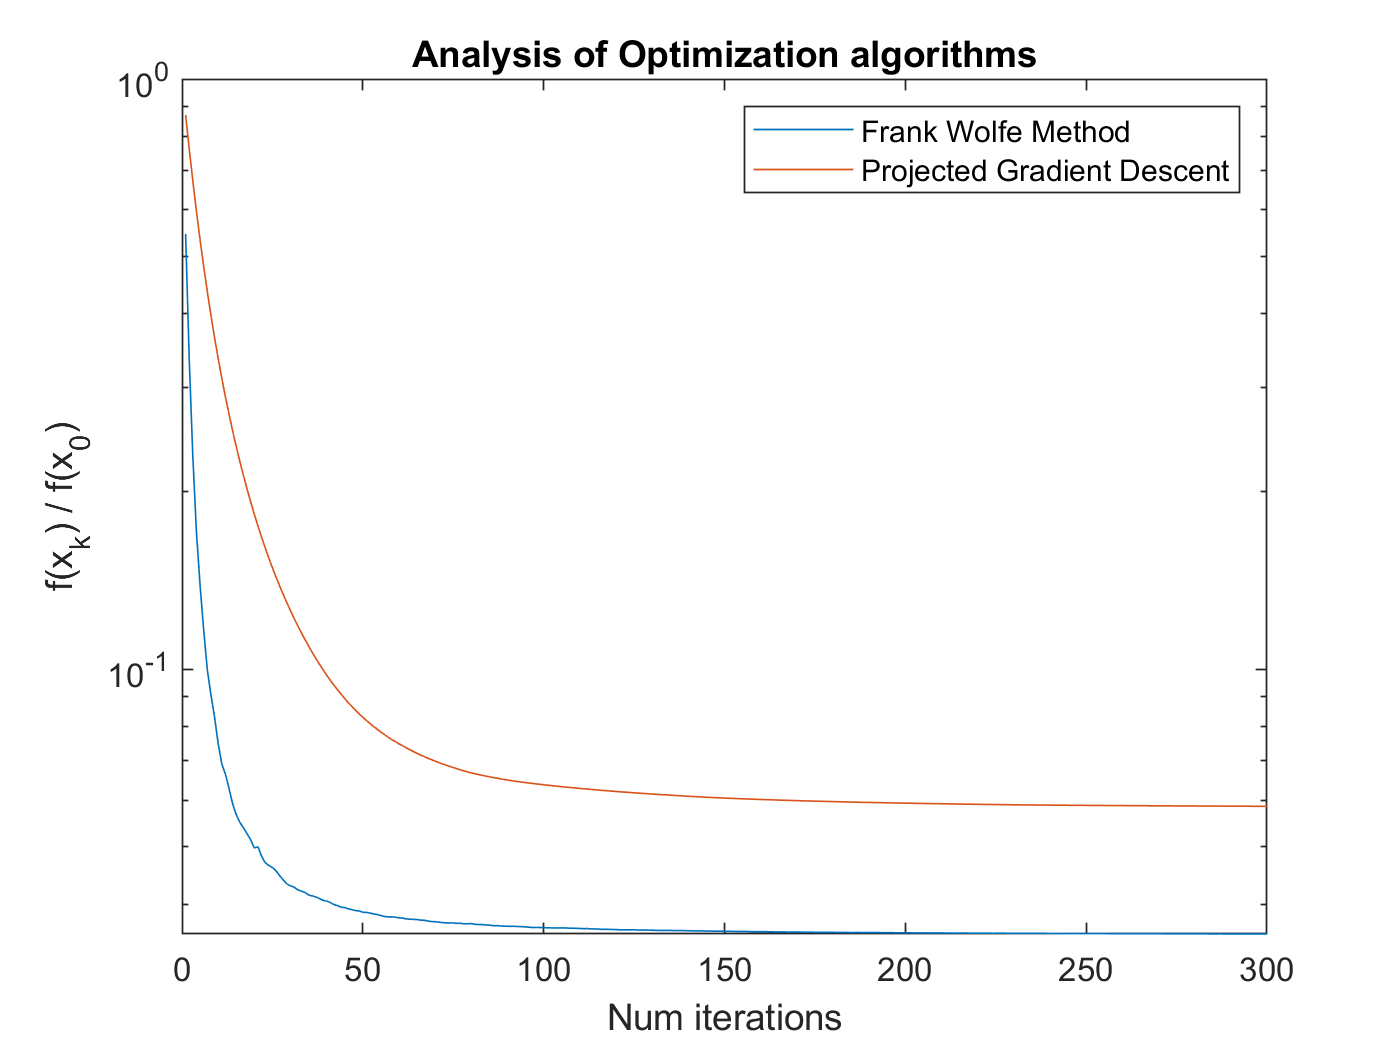
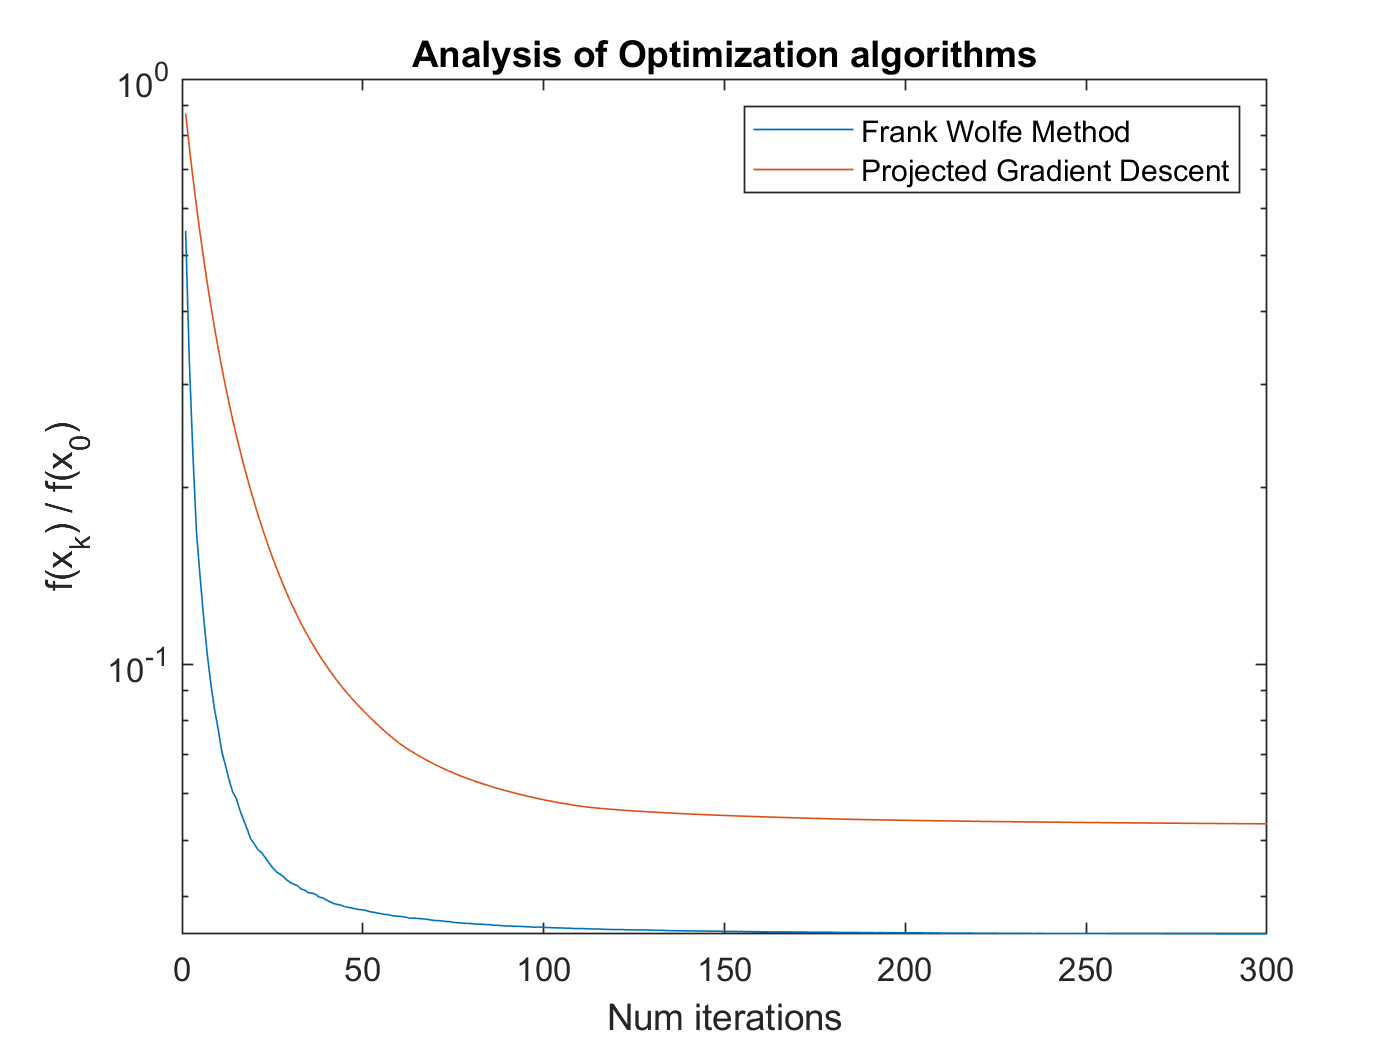
Added code to accept a trial only if f value converges to at least 0.1 times initial val in n_iter iterations

diff --git a/assignments/assignment5/q2.m b/assignments/assignment5/q2.m
@@ -9,8 +9,8 @@ function q2(p, n, n_iter)
     f_vals_pgd = zeros(n_iter, n_trials);
     iterate_sparsity_pgd = zeros(n_trials, 1) - 1;
     
-    trial = 1
-    for trial = 1 : n_trials
+    trial = 1;
+    while trial <= n_trials
         % rng('default') % For reproducibility
         B = normrnd(0, 1, [p, n]);
         b = ones(p, 1);
@@ -26,19 +26,31 @@ function q2(p, n, n_iter)
         
         x_k_pgd = zeros(n, 1);
         x_k_pgd(1) = 1;
+        
+        trial_f_vals_fw = zeros(n_iter, 1);
+        trial_f_vals_pgd = zeros(n_iter, 1);
     
         for iter = 1 : n_iter
             x_k_fw = FrankWolfeMethod(x_k_fw, B, b, iter - 1);
-            f_vals_fw(iter, trial) = evaluateFunction(B, b, x_k_fw) / evaluateFunction(B, b, x0);
+            trial_f_vals_fw(iter) = evaluateFunction(B, b, x_k_fw) / evaluateFunction(B, b, x0);
+            % f_vals_fw(iter, trial) = evaluateFunction(B, b, x_k_fw) / evaluateFunction(B, b, x0);
             if iterate_sparsity_fw(trial) == -1 && f_vals_fw(iter, trial) <= 0.1
                 iterate_sparsity_fw(trial) = sum(x_k_fw == 0);
             end
 
             x_k_pgd = ProjectedGradientDescent(B, b, L, x_k_pgd);
-            f_vals_pgd(iter, trial) = evaluateFunction(B, b, x_k_pgd) / evaluateFunction(B, b, x0);
+            trial_f_vals_pgd(iter) = evaluateFunction(B, b, x_k_pgd) / evaluateFunction(B, b, x0);
+            % f_vals_pgd(iter, trial) = evaluateFunction(B, b, x_k_pgd) / evaluateFunction(B, b, x0);
             if iterate_sparsity_pgd(trial) == -1 && f_vals_pgd(iter, trial) <= 0.1
                 iterate_sparsity_pgd(trial) = sum(x_k_pgd == 0);
             end
+        end
+        
+        if iterate_sparsity_fw(trial) ~= -1 && iterate_sparsity_pgd(trial) ~= -1
+            f_vals_fw(:, trial) = trial_f_vals_fw;
+            f_vals_pgd(:, trial) = trial_f_vals_pgd;
+            
+            trial = trial + 1;
         end
     end
     
@@ -46,10 +58,10 @@ function q2(p, n, n_iter)
     f_vals_pgd = sum(f_vals_pgd, 2) / n_trials;
     
     % Sanity check: if algo doesn't converge, this may happen
-    % if sum(iterate_sparsity_fw == -1) > 0 || sum(iterate_sparsity_pgd == -1) > 0
-    %     disp(iterate_sparsity_fw);
-    %     disp(iterate_sparsity_pgd);
-    % end
+    if sum(iterate_sparsity_fw == -1) > 0 || sum(iterate_sparsity_pgd == -1) > 0
+        disp(iterate_sparsity_fw);
+        disp(iterate_sparsity_pgd);
+    end
     
     disp("Frank-Wolfe sparsity: " + sum(iterate_sparsity_fw) / n_trials);
     disp("PGD sparsity: " + sum(iterate_sparsity_pgd) / n_trials);
